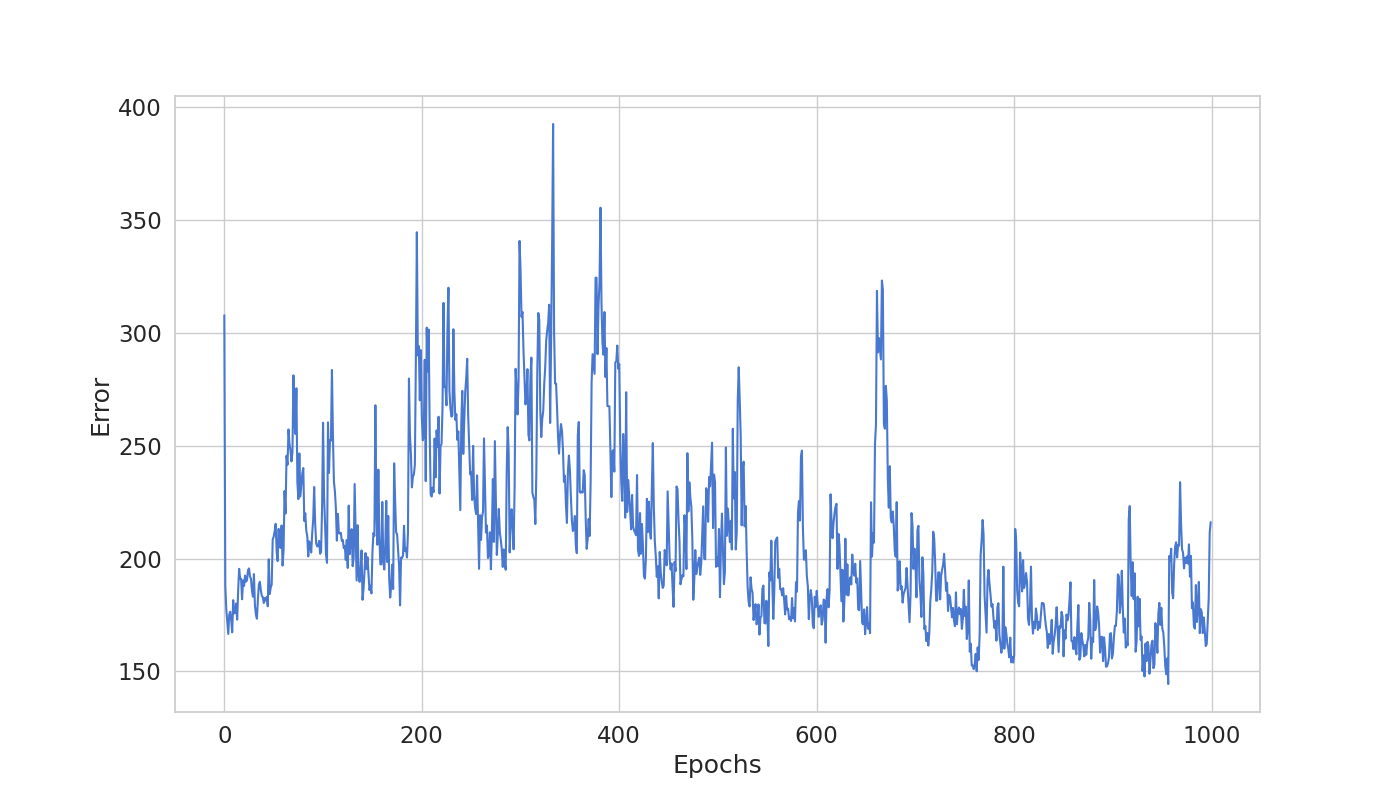
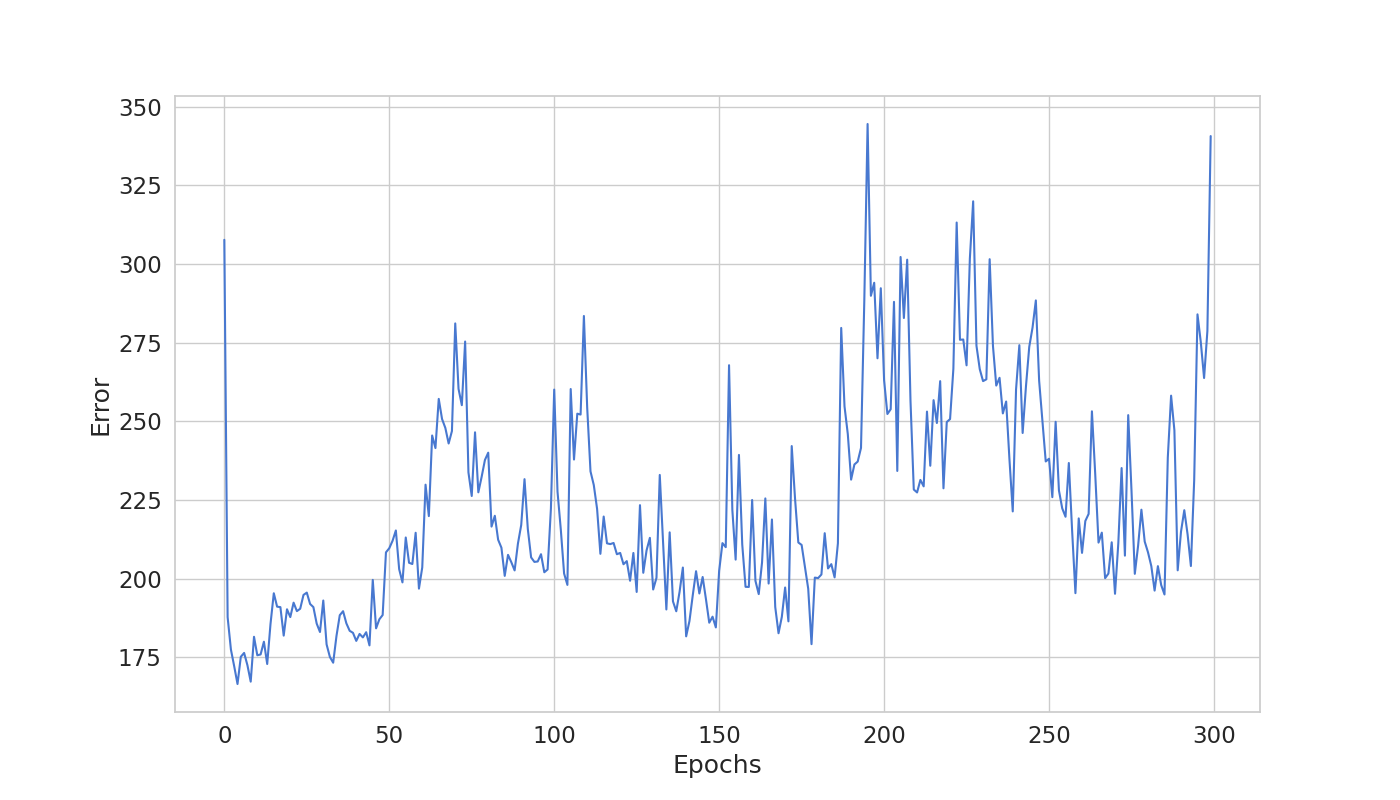
fixed stupid typo in nn code

diff --git a/nueral_net.py b/nueral_net.py
@@ -46,10 +46,10 @@ class NNClassificationModel:
     def cross_entropy(self, outputs, y_target):
         return -np.sum(np.log(outputs) * y_target, axis=1)
 
-    def L1_reg(self, lambda_, w1, w2):
+    def L2_reg(self, lambda_, w1, w2):
         return(lambda_ / 2.0) * (np.sum(w1 ** 2) + np.sum(w2 ** 2))
 
-    def L2_reg(self, lambda_, w1, w2):
+    def L1_reg(self, lambda_, w1, w2):
         return(lambda_ / 2.0) * (np.abs(w2).sum() + np.abs(w2).sum())
 
     def _error(self, y, output):
@@ -79,8 +79,8 @@ class NNClassificationModel:
 
         grad1 , grad2 = self._backward(net_input, net_hidden, act_hidden, act_out, y)
 
-        grad1 += self.w1 * (self.l1 + self.l2)
-        grad2 += self.w2 * (self.l1 + self.l2)
+        grad1 += (self.w1 * (self.l1 + self.l2))
+        grad2 += (self.w2 * (self.l1 + self.l2))
 
         error = self._error(y, act_out)
 
@@ -102,8 +102,8 @@ class NNClassificationModel:
                 #Update the weights
                 error, grad1, grad2 = self._backprop_step(Xi, yi)
                 epoch_errors.append(error)
-                self.w1 -= self.learning_rate * grad1
-                self.w2 -= self.learning_rate * grad2
+                self.w1 -= (self.learning_rate * grad1)
+                self.w2 -= (self.learning_rate * grad2)
             
             self.error_.append(np.mean(epoch_errors))
             print("EPOCH %s --- Error (%s)" %(i, np.mean(epoch_errors)))

diff --git a/mnist_nn_classifier.py b/mnist_nn_classifier.py
@@ -74,7 +74,7 @@ X, y = read_data('./data/train-images-idx3-ubyte', './data/train-labels-idx1-uby
 X_train, X_test, y_train, y_test = train_test_split(X, y, test_size=0.2, random_state=42)
 
 nn = NNClassificationModel(n_classes=10, n_features=28*28, n_hidden_units=50,
-                            l2=0.5, l1=0.0, epochs=1000, learning_rate=0.001,
+                            l2=0.5, l1=0.0, epochs=300, learning_rate=0.001,
                             n_batches=25, random_seed=42)
 
 nn.fit(X_train, y_train)
